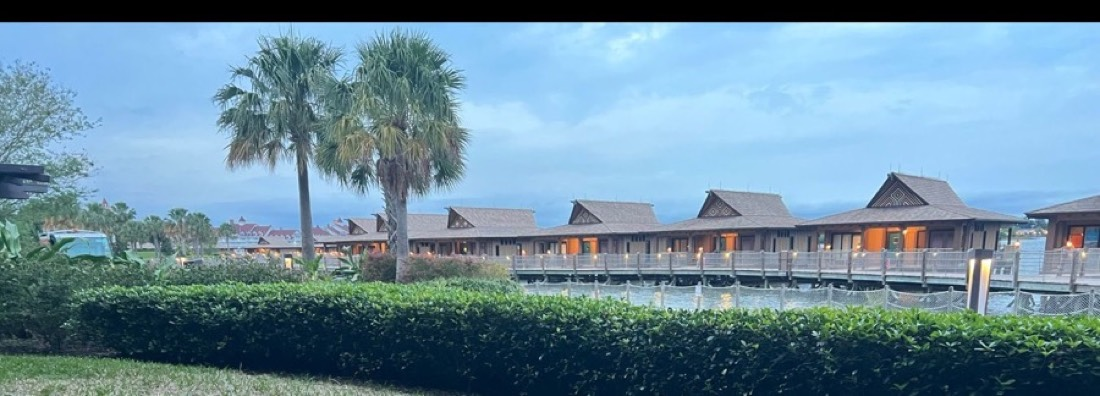
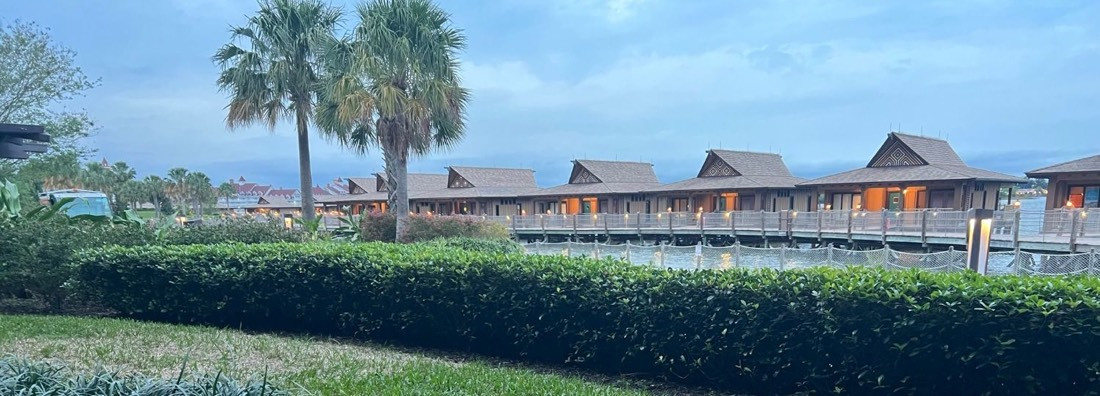
Give Jambo House its thatched roofs, and repair the dusk band
The dusk band shipped with a black strip along its top: sips reads
--cropOffset as an absolute row, so a negative value pads rather than
pans. Both bands are now cut from inside the frame.

diff --git a/index.html b/index.html
@@ -445,7 +445,7 @@ function load(){try{const r=localStorage.getItem(KEY);if(r)db=JSON.parse(r);}cat
   let mig=false;const km={};db.trips.forEach(t=>{if(!t.bid){const k=(t.resort||'')+'|'+(t.dates||'')+'|'+t.uy;if(!km[k])km[k]=uid();t.bid=km[k];mig=true;}});if(mig)save();}
 function save(){try{localStorage.setItem(KEY,JSON.stringify(db));}catch(e){alert('Could not save — storage may be full (photos use space).');}}
 function uid(){return Date.now().toString(36)+Math.random().toString(36).slice(2,6);}
-const BUILD='2026.11.22-13';  /* bump when shipping — shown in the footer so a stale cached copy is identifiable */
+const BUILD='2026.11.22-14';  /* bump when shipping — shown in the footer so a stale cached copy is identifiable */
 const UY_MONTH={February:2,March:3,April:4,June:6,August:8,September:9,October:10,December:12};
 function bankingDeadline(m,y){const s=UY_MONTH[m];if(!s)return null;let mo=s+8,yy=y;if(mo>12){mo-=12;yy+=1;}const M=['January','February','March','April','May','June','July','August','September','October','November','December'];return M[mo-1]+' 1, '+yy;}
 function lastDay(m,y){return new Date(y,m,0).getDate();}
@@ -478,6 +478,7 @@ const RESORT_PHOTOS={'polynesian villas':['img/polynesian.jpg','img/polynesian-d
 'hilton head':['img/hilton-head.jpg','img/hilton-head-topiary.jpg'],
 'kidani':['img/kidani.jpg'],
 'grand floridian':['img/grand-floridian.jpg'],
+'jambo':['img/jambo.jpg'],
 'beach club':['img/beach-club.jpg'],
 'vero beach':['img/vero-beach.jpg','img/vero-slide.jpg','img/vero-lobby.jpg'],
 'aulani':['img/aulani.jpg','img/aulani-sign.jpg']};
@@ -611,6 +612,7 @@ const CARD_PHOTOS={'polynesian villas':'img/card-polynesian.jpg',
 'hilton head':'img/card-hilton-head.jpg',
 'kidani':'img/card-kidani.jpg',
 'grand floridian':'img/card-grand-floridian.jpg',
+'jambo':'img/card-jambo.jpg',
 'vero beach':'img/card-vero-beach.jpg'};
 function cardPhoto(name){const n=(name||'').trim().toLowerCase();const k=Object.keys(CARD_PHOTOS).find(k=>n.includes(k));return k?CARD_PHOTOS[k]:'';}
 /* No photo for this resort: lay the drawn postcard out as one — scene on top,
